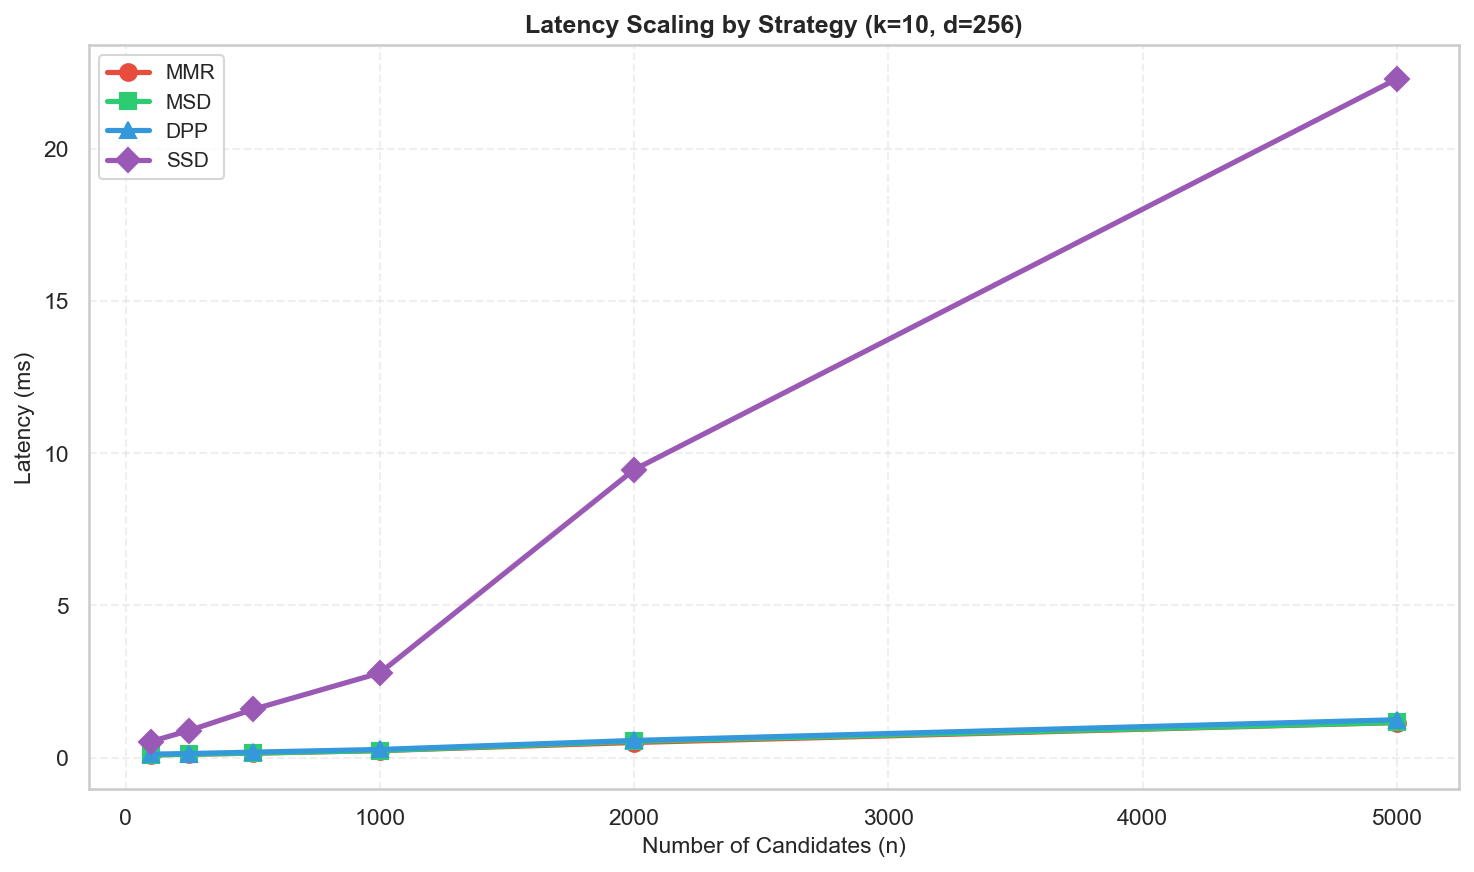
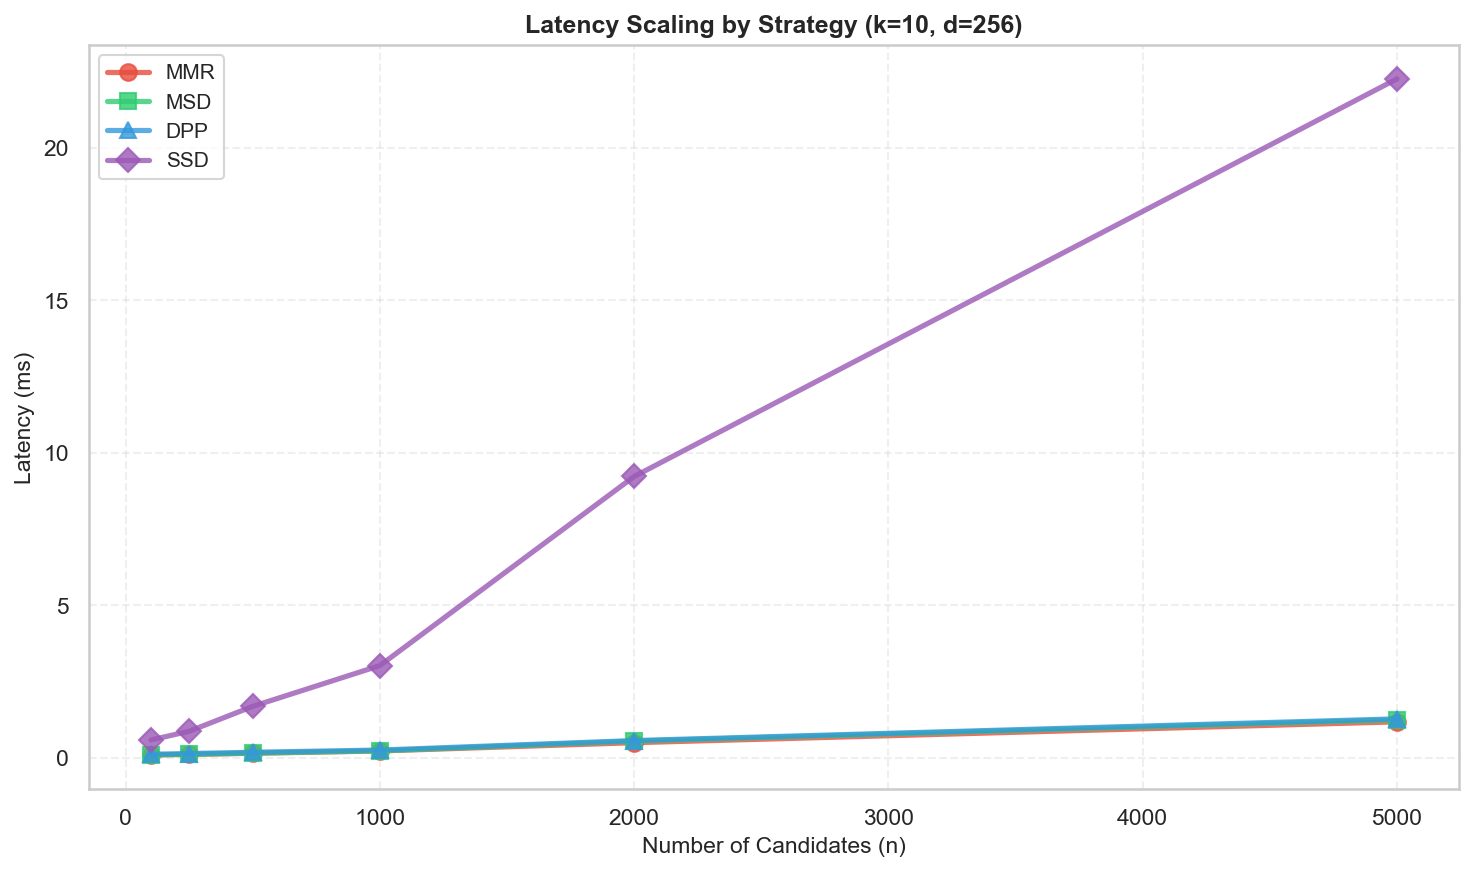
Updated plot, updated code

diff --git a/benchmarks/core/report.py b/benchmarks/core/report.py
@@ -7,6 +7,8 @@ from pathlib import Path
 import matplotlib.pyplot as plt
 import seaborn as sns
 
+from benchmarks.core.latency import run_latency_benchmark
+
 logger = logging.getLogger(__name__)
 
 # Set up seaborn styling
@@ -296,8 +298,6 @@ def generate_pareto_plot(all_data: list[dict], output_path: Path, diversity_metr
 
 def generate_latency_plot(output_path: Path) -> None:
     """Generate latency scaling plot using synthetic benchmark."""
-    from benchmarks.core.latency import run_latency_benchmark
-
     logger.info("Running synthetic latency benchmark...")
     results = run_latency_benchmark()
 
@@ -322,6 +322,7 @@ def generate_latency_plot(output_path: Path) -> None:
             label=strategy.upper(),
             markersize=8,
             linewidth=2.5,
+            alpha=0.8,
         )
 
     ax.set_xlabel("Number of Candidates (n)", fontsize=11)

diff --git a/benchmarks/core/__init__.py b/benchmarks/core/__init__.py
@@ -2,7 +2,7 @@ from benchmarks.core.config import BenchmarkConfig
 from benchmarks.core.data import DATASET_REGISTRY, DatasetInfo, DatasetType, InteractionData, load_dataset
 from benchmarks.core.latency import run_latency_benchmark
 from benchmarks.core.metrics import ilad, ilmd, mrr, ndcg
-from benchmarks.core.report import generate_report
+from benchmarks.core.report import generate_latency_plot, generate_report
 from benchmarks.core.runner import run_benchmark
 
 __all__ = [
@@ -11,6 +11,7 @@ __all__ = [
     "DatasetInfo",
     "DatasetType",
     "InteractionData",
+    "generate_latency_plot",
     "generate_report",
     "ilad",
     "ilmd",

diff --git a/benchmarks/core/runner.py b/benchmarks/core/runner.py
@@ -2,6 +2,7 @@ from __future__ import annotations
 
 import json
 import logging
+from collections import defaultdict
 from datetime import datetime, timezone
 
 import numpy as np
@@ -140,9 +141,7 @@ def _evaluate_user(
 
 def _aggregate_results(results: list[dict], config: BenchmarkConfig) -> list[dict]:
     """Aggregate per-user results by strategy/diversity into mean and std."""
-    from collections import defaultdict
-
-    groups = defaultdict(list)
+    groups: dict[tuple[str, float], list[dict]] = defaultdict(list)
     for r in results:
         key = (r["strategy"], r["diversity"])
         groups[key].append(r)

diff --git a/benchmarks/core/data.py b/benchmarks/core/data.py
@@ -7,6 +7,7 @@ from pathlib import Path
 
 import numpy as np
 import pandas as pd
+from datasets import load_dataset as hf_load_dataset
 from numpy.typing import NDArray
 
 logger = logging.getLogger(__name__)
@@ -148,8 +149,6 @@ def _load_lastfm(path: Path) -> pd.DataFrame:
 
 def _load_huggingface(dataset_id: str) -> pd.DataFrame:
     """Load a dataset from HuggingFace Hub."""
-    from datasets import load_dataset as hf_load_dataset
-
     logger.debug(f"Loading from HuggingFace: {dataset_id}")
     ds = hf_load_dataset(dataset_id, split="train")
     df = ds.to_pandas()

diff --git a/benchmarks/__main__.py b/benchmarks/__main__.py
@@ -11,6 +11,7 @@ from tqdm import tqdm
 from benchmarks.core import (
     DATASET_REGISTRY,
     BenchmarkConfig,
+    generate_latency_plot,
     generate_report,
     run_benchmark,
 )
@@ -106,8 +107,6 @@ def cmd_report() -> None:
 
 def cmd_latency() -> None:
     """Run latency benchmark and generate plot."""
-    from benchmarks.core.report import generate_latency_plot
-
     RESULTS_DIR.mkdir(parents=True, exist_ok=True)
     generate_latency_plot(RESULTS_DIR / "latency.png")
 
